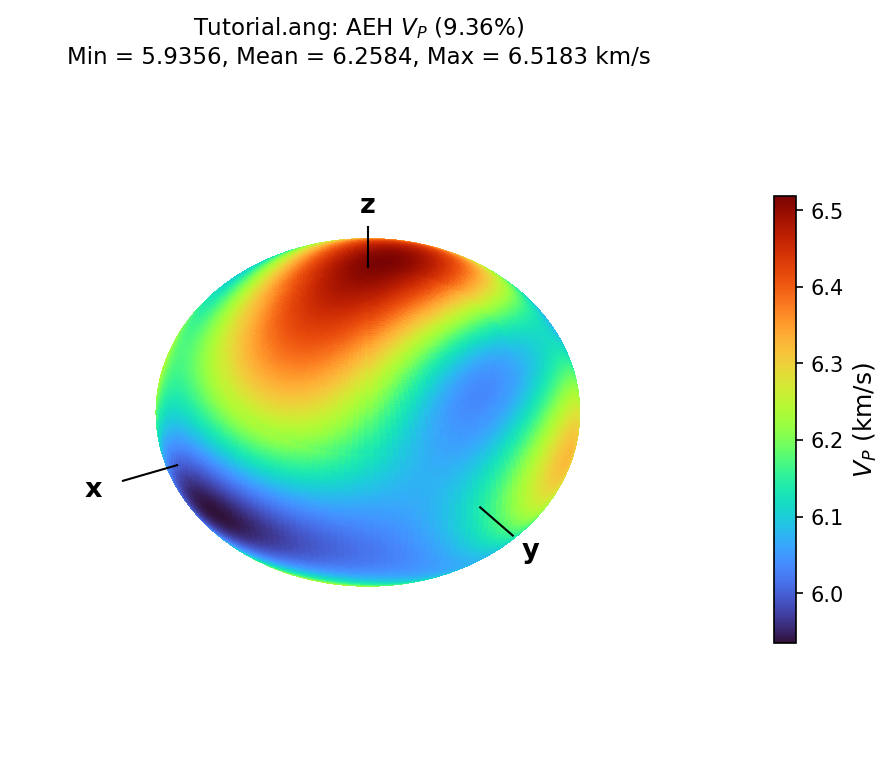
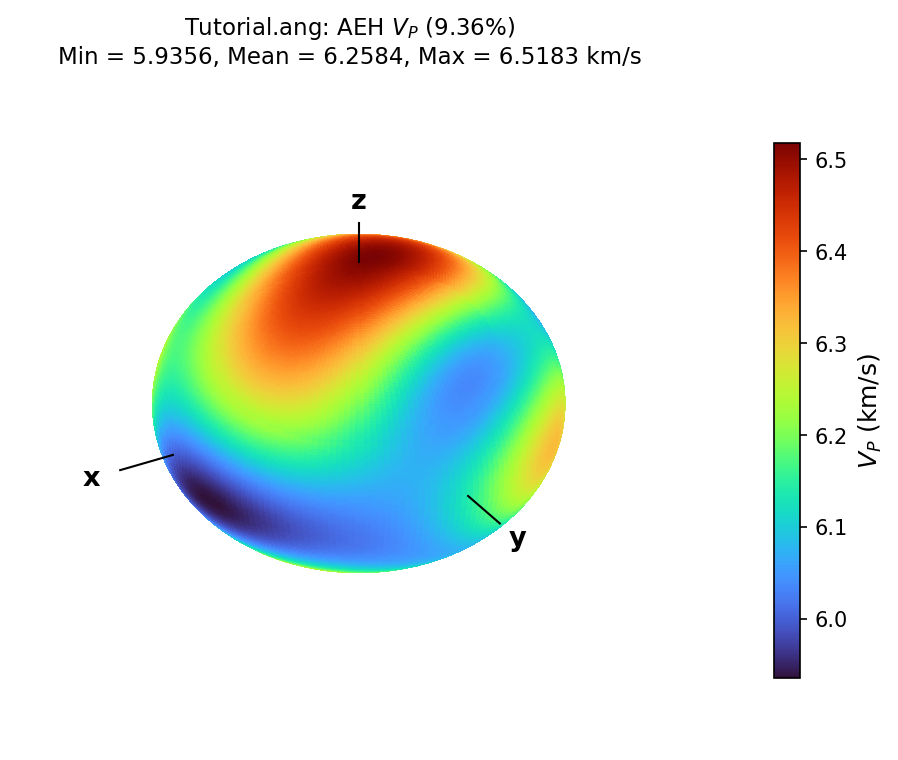
--

diff --git a/tesa/plot_wave_speeds.py b/tesa/plot_wave_speeds.py
@@ -223,7 +223,7 @@ def plot_wave_speed_sphere(XC, YC, ZC, field, field_label, field_unit,
     sm = plt.cm.ScalarMappable(cmap=cmap, norm=norm)
     sm.set_array([])
     cb_label = f'{field_label} ({field_unit})' if field_unit else field_label
-    cb = fig.colorbar(sm, ax=ax, shrink=0.5, pad=0.08)
+    cb = fig.colorbar(sm, ax=ax, shrink=0.6, pad=0.1)
     cb.set_label(cb_label, fontsize=12)
 
     # Title
